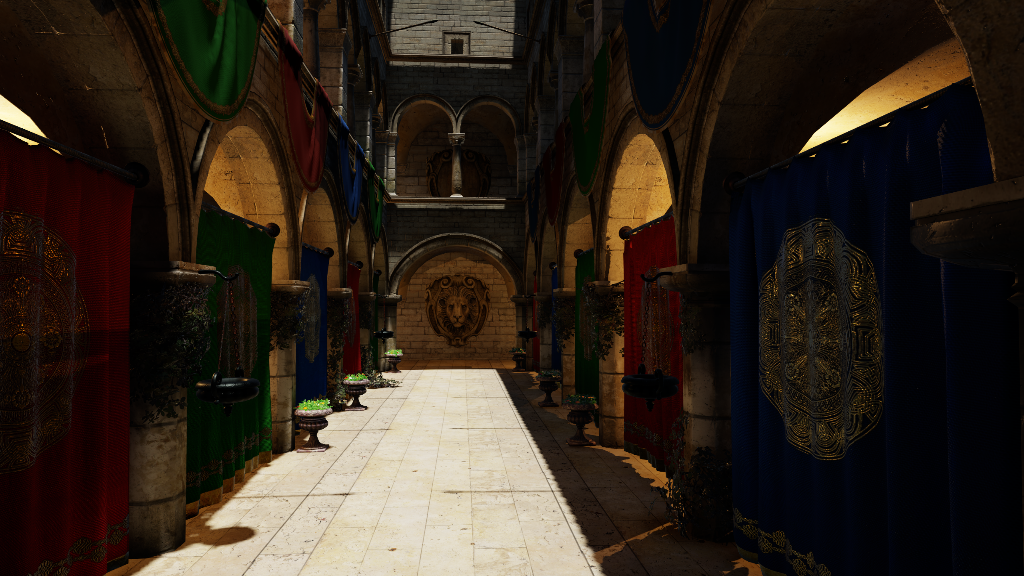
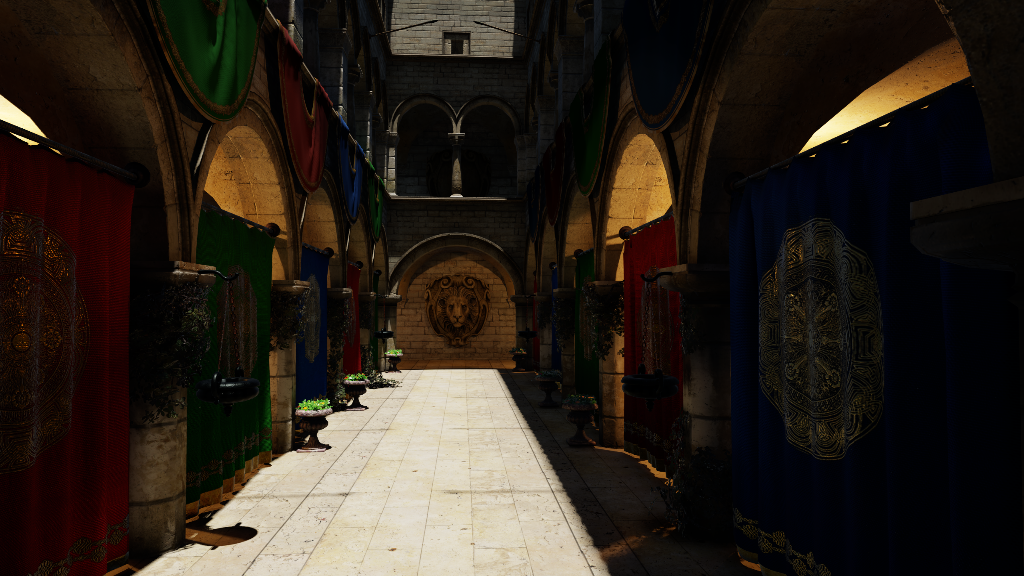
Snimci: SSR naspram RT u sirovom baferu, mapa senki naspram trasiranih, i all-RT sada zaista sve RT
Slika 4.10 je govorila "ray-traced ekvivalenti" a renderovala mapu senki, jer je rt_all postavljao
samo AO/refl/GI. Obrazlozenje da se senke drze konstantnim izolovanja radi ne stoji: figura sedi uz
tab:quality, ciji red "sve RT" jeste na trasiranim senkama, pa su slika i glavni broj opisivali
razlicite renderere. Screen-space nema pandan trasiranoj senci, tako da je mapa prirodni partner
levoj strani; sada su to dve celovite konfiguracije i poklapaju se sa matricom quality-bench-a.

Slika 4.11 popravlja obecanje koje tekst nije ispunjavao. Odeljak je tvrdio da "per-view captures
make visible" prednost trasiranja, a pokazivao slozen kadar u kome je refleksija mali aditivni clan.
Debug pogled 3 izoluje sam bafer: SSR na promasaj vraca mapu okruzenja, pa je 9.0% piksela skoro
belo naspram 0.0%, uz srednju vrednost 169.4 naspram 65.99.

Slika 3.2 prvi put pokazuje rastersku mapu senki naspram trasirane, sto Glava 3 do sada samo tvrdi.

Provere koje su promenile zakljucke. Slozeni snimci su deterministicki (dva uzastopna identicna do
bita), pa je svaka razlika medju panelima stvarna. Sirovi baferi nisu: RT bafer refleksije jeste
(113.61 tri puta), ali SSR nije (rasipanje 7.39), jer SSR odbija boju PRETHODNOG kadra. Prvo sam
mislio da belinu SSR-a pravi moj max_roughness=1.0, pa sam snimio na podrazumevanoj vrednosti: nije
se promenilo nista, belina je stvarno ponasanje SSR-a na ovom pogledu.
[…]

diff --git a/master-rad/teza/tools/thesis_shots.py b/master-rad/teza/tools/thesis_shots.py
@@ -108,6 +108,30 @@ SHOTS = [
     ("gi_halfres", ATRIUM, {**ALL_RT, "SS_RENDER_DEBUGVIEW": "6", "SS_RENDER_GI_SCALE": "0.5"}, False),
     ("gi_fullres", ATRIUM, {**ALL_RT, "SS_RENDER_DEBUGVIEW": "6", "SS_RENDER_GI_SCALE": "1.0"}, False),
 
+    # Screen-space against ray-traced in the RAW effect buffer rather than the composited frame. The
+    # composited pair (ss_all/rt_all) is dominated by direct lighting, so the off-screen error that is
+    # the whole point of tracing is a few grey levels there; the debug views isolate the term itself.
+    # SSR writes the same full-res ReflectionTarget as the RT path, so debug view 3 shows both.
+    # max_roughness stays at its 0.8 default here. Forcing it to 1.0 puts SSR on every surface
+    # including ones whose march cannot hit anything, and its miss path falls back to the prefiltered
+    # env cube, so the buffer goes near-white: that is the override talking, not the technique.
+    ("ssvsrt_ssr", GRAZING, {**BASE_ENV, "SS_RENDER_REFLECTIONS_MODE": "1",
+                             "SS_RENDER_DEBUGVIEW": "3"}, False),
+    ("ssvsrt_rtrefl", GRAZING, {**BASE_ENV, "SS_RENDER_REFLECTIONS_MODE": "2",
+                                "SS_RENDER_DEBUGVIEW": "3"}, False),
+    # These two back a statistic rather than a figure. The isolated AO term is median 255 of 255 over
+    # this view with only 14.1% (SSAO) and 17.6% (RT AO) of pixels below 240, which is what makes the
+    # near-parity FLIP result unsurprising. As an image the pair is near-white and unreadable in print,
+    # so section sec:poredjenje quotes the numbers and shows nothing; they are captured so the numbers
+    # can be recomputed rather than taken on trust.
+    ("ssvsrt_ssao", ATRIUM, {**BASE_ENV, "SS_RENDER_AO_MODE": "1", "SS_RENDER_DEBUGVIEW": "2"}, False),
+    ("ssvsrt_rtao", ATRIUM, {**BASE_ENV, "SS_RENDER_AO_MODE": "2", "SS_RENDER_DEBUGVIEW": "2"}, False),
+
+    # The raster shadow fallback against the traced one, at the same pose. Chapter 3 asserts the
+    # difference (full-res exact visibility, cost linear in light count) and never shows it.
+    ("shadow_map", SUNSTRIP, {**BASE_ENV, "SS_RENDER_SHADOWS_MODE": "1"}, False),
+    ("shadow_rt", SUNSTRIP, {**BASE_ENV, "SS_RENDER_SHADOWS_MODE": "2"}, False),
+
     ("dbg_gi_raw", ATRIUM, {**ALL_RT, "SS_RENDER_DEBUGVIEW": "6"}, False),
     ("dbg_gi_denoised", ATRIUM, {**ALL_RT, "SS_RENDER_DEBUGVIEW": "7"}, False),
     ("dbg_shadow_raw", ATRIUM, {**ALL_RT, "SS_RENDER_SHADOWS_STOCHASTIC": "1",
@@ -115,12 +139,15 @@ SHOTS = [
     ("dbg_shadow_denoised", ATRIUM, {**ALL_RT, "SS_RENDER_SHADOWS_STOCHASTIC": "1",
                                      "SS_RENDER_DEBUGVIEW": "9"}, False),
 
-    # Screen-space (mode 1) against ray-traced (mode 2) for the same three effects and the same pose:
-    # the off-screen-information failure of the screen-space family is the point of the pair.
-    ("ss_all", ATRIUM, {**BASE_ENV, "SS_RENDER_AO_MODE": "1", "SS_RENDER_REFLECTIONS_MODE": "1",
-                        "SS_RENDER_GI_MODE": "1"}, False),
-    ("rt_all", ATRIUM, {**BASE_ENV, "SS_RENDER_AO_MODE": "2", "SS_RENDER_REFLECTIONS_MODE": "2",
-                        "SS_RENDER_GI_MODE": "2"}, False),
+    # Two COMPLETE configurations at one pose, not one variable held against three. Shadows differ
+    # with the rest because screen space has no analogue of a traced shadow: the shadow map is what
+    # that family actually ships. Matching quality-bench's own matrix, where all-rt is the only
+    # technique that overrides render.shadows.mode, keeps this pair and the all-RT row of the quality
+    # table describing the same renderer.
+    ("ss_all", ATRIUM, {**BASE_ENV, "SS_RENDER_SHADOWS_MODE": "1", "SS_RENDER_AO_MODE": "1",
+                        "SS_RENDER_REFLECTIONS_MODE": "1", "SS_RENDER_GI_MODE": "1"}, False),
+    ("rt_all", ATRIUM, {**BASE_ENV, "SS_RENDER_SHADOWS_MODE": "2", "SS_RENDER_AO_MODE": "2",
+                        "SS_RENDER_REFLECTIONS_MODE": "2", "SS_RENDER_GI_MODE": "2"}, False),
 
     # Debug view 1 is identically black under a pinned camera, since nothing moves, so this is the one
     # shot that needs camera.path (a deterministic orbit) instead of a fixed pose. pose=None leaves

diff --git a/master-rad/teza/latex/chapters/04-analiza.tex b/master-rad/teza/latex/chapters/04-analiza.tex
@@ -608,9 +608,13 @@ all effects reaches FLIP \qAllRtFlip{}, PSNR \qAllRtPsnr{}, SSIM \qAllRtSsim{}, 
 the reference. Second, at these
 whole-frame metrics screen-space and ray-traced AO and reflections are near-parity (SSAO versus RT AO,
 and SSR versus RT reflections, differ by under 0.01 in FLIP), because the occlusion and reflection
-contributions are small at the whole-frame level; the ray-traced advantage is off-screen correctness,
-which a whole-frame average does not isolate and which the per-view captures (Figure~\ref{fig:rt-vs-ss})
-make visible. Screen-space GI sits between those two tiers: its FLIP (0.341) is markedly better than
+contributions are small at the whole-frame level. That smallness is measurable rather than assumed:
+captured through the debug view that isolates the AO term alone, the atrium viewpoint has a median AO
+of 255 of 255, that is no occlusion at all, and only 14.1\% (SSAO) and 17.6\% (RT AO) of pixels fall
+below 240. An effect that leaves five sixths of the frame untouched cannot move a whole-frame average
+much, whichever way it is computed. The ray-traced advantage is off-screen correctness, which a
+whole-frame average does not isolate; Figure~\ref{fig:ssvsrt-refl} isolates it for reflections by
+showing the reflection buffer itself instead of the composited frame. Screen-space GI sits between those two tiers: its FLIP (0.341) is markedly better than
 the AO/reflection pairs but well short of RT GI (0.141), consistent with SSGI only gathering bounce
 light from on-screen geometry, where RT GI also reaches off-screen and behind-camera surfaces.
 
@@ -618,12 +622,30 @@ light from on-screen geometry, where RT GI also reaches off-screen and behind-ca
 \centering
 \includegraphics[width=0.48\textwidth]{figures/ss_all.png}\hfill%
 \includegraphics[width=0.48\textwidth]{figures/rt_all.png}
-\caption[Screen-space naspram ray-traced ekvivalenata]{Ista scena i kamera: screen-space
-aproksimacije (levo: SSAO, SSR, SSGI) naspram ray-traced ekvivalenata (desno: RTAO, RT refleksije,
-RT GI). Senke su na obe strane shadow map, a ne trasirane: dr\v{z}e se konstantnim da bi razlika
-poticala samo od ta tri efekta. Screen-space varijanta je svetlija jer ne mo\v{z}e da oduzme svetlo
-koje dolazi od geometrije van ekrana.}
+\caption[Screen-space naspram ray-traced konfiguracije]{Ista scena i kamera, dve celovite
+konfiguracije: screen-space (levo: mapa senki, SSAO, SSR, SSGI) naspram ray-traced (desno: trasirane
+senke, RTAO, RT refleksije, RT GI). Senke prate ostatak jer screen-space nema svoj pandan trasiranoj
+senci, pa je mapa ono \v{s}to ta familija zaista koristi; to je ista podela koju koristi i red
+\rqt{sve RT} u Tabeli~\ref{tab:quality}. Screen-space varijanta je svetlija jer ne mo\v{z}e da oduzme
+svetlo koje dolazi od geometrije van ekrana.}
 \label{fig:rt-vs-ss}
+\end{figure}
+
+\begin{figure}[tbp]
+\centering
+\begin{minipage}{0.48\textwidth}\centering
+\includegraphics[width=\linewidth]{figures/ssvsrt_ssr.png}\\{\small SSR}
+\end{minipage}\hfill
+\begin{minipage}{0.48\textwidth}\centering
+\includegraphics[width=\linewidth]{figures/ssvsrt_rtrefl.png}\\{\small RT refleksije}
+\end{minipage}
+\caption[Sirov bafer refleksije: SSR naspram RT]{Sirov bafer refleksije (\texttt{render.debugview} 3),
+isti pogled i iste podrazumevane vrednosti; SSR i RT pi\v{s}u u isti bafer, pa je jedina promenljiva
+izvor refleksije. Kada mar\v{s} kroz dubinski bafer ne na\dj e ni\v{s}ta, SSR vra\'ca prefiltriranu
+mapu okru\v{z}enja: 9.0\% piksela je zbog toga skoro belo, naspram 0.0\% na desnoj strani, a srednja
+vrednost bafera je 169.4 naspram 65.99. U slo\v{z}enom kadru se ta razlika gubi ispod direktnog
+osvetljenja, zbog \v{c}ega je FLIP dve tehnike gotovo isti.}
+\label{fig:ssvsrt-refl}
 \end{figure}
 
 \section{Stabilnost pod kretanjem}

diff --git a/master-rad/teza/latex/chapters/03-implementacija.tex b/master-rad/teza/latex/chapters/03-implementacija.tex
@@ -281,6 +281,30 @@ is offset along the geometric normal and toward the light
 (\texttt{positionWS + Ng*0.02 + L*0.01}) to avoid self-intersection.
 Listing~\ref{lst:shadow} shows the inline query in HLSL.
 
+The alternative the engine keeps is the raster shadow map, which is also the default and the fallback
+on a device without ray tracing. Figure~\ref{fig:shadow-vs-map} puts the two side by side at one pose.
+The traced result resolves contact shadows the map's finite resolution and depth bias smear, and it
+needs no bias tuning at all, since it answers visibility by intersecting the real geometry rather than
+by comparing against a quantised depth texture. What it costs is a ray per light per pixel, so its
+price grows with light count where the map amortises over the whole frame; that tradeoff is measured
+in Section~\ref{sec:analiza-shadow-strategy}.
+
+\begin{figure}[tbp]
+\centering
+\begin{minipage}{0.48\textwidth}\centering
+\includegraphics[width=\linewidth]{figures/shadow_map.png}\\{\small mapa senki (raster)}
+\end{minipage}\hfill
+\begin{minipage}{0.48\textwidth}\centering
+\includegraphics[width=\linewidth]{figures/shadow_rt.png}\\{\small trasirane senke}
+\end{minipage}
+\caption[Mapa senki naspram trasiranih senki]{Ista poza i isto svetlo, \texttt{render.shadows.mode}
+1 naspram 2. Rasterska mapa ima kona\v{c}nu rezoluciju i pomeraj dubine, pa se kontaktne senke
+razlivaju i ivice su mek\v{s}e nego \v{s}to geometrija nala\v{z}e; trasirana verzija ih razre\v{s}ava
+preko stvarne geometrije. Snimci su deterministi\v{c}ki (dva uzastopna snimka iste konfiguracije su
+identi\v{c}na do bita), pa je svaka razlika izme\dj u panela stvarna.}
+\label{fig:shadow-vs-map}
+\end{figure}
+
 
 \needspace{22\baselineskip}
 \begin{lstlisting}[caption={Inline ray-query test vidljivosti za senku (HLSL).}, label={lst:shadow}]
